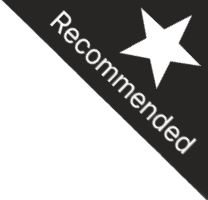
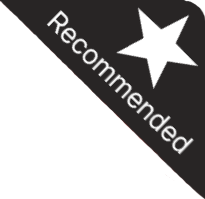
feature/abonnementen
Added the right styling

diff --git a/resources/sass/layout/abonnementen.scss b/resources/sass/layout/abonnementen.scss
@@ -3,10 +3,12 @@ body {
     text-align: center;
 }
 
+// Page title
 .abonnementen__title {
   color: $color--black;
 }
 
+// Subscriptions
 .abonnementen__cards {
   display: flex;
   flex-direction: column;
@@ -16,36 +18,105 @@ body {
     flex-direction: row;
     justify-content: center;
   }
-}
 
-.abonnementen__cards__content {
-  position: relative;
-  margin-bottom: 10px;
-  padding-bottom: 30px;
-  background-color: $color--primary;
-  color: $color--secondary;
-
-  @media #{$normal} {
-    height: 70vh;
-    width: 33vw;
-    margin-bottom: 0;
-    margin-right: 10px;
-    padding: 0 20px 20px 20px;
-  }
-}
-
-.abonnementen__cards__content__purchase {
-    background-color: $color--davy-grey;
+  // Content of abonnementen__cards
+  .abonnementen__cards__content {
+    position: relative;
+    margin-bottom: 10px;
+    padding-bottom: 240px;
+    background-color: $color--primary;
     color: $color--secondary;
-    text-decoration: none;
+    border-radius: 20px;
+    box-shadow: $color--davy-transpar 8px 8px 8px;
 
-    &:hover {
-        color: $color--primary;
+    @media #{$normal} {
+      height: 70vh;
+      width: 20vw;
+      margin-bottom: 0;
+      margin-left: 20px;
+      margin-right: 20px;
+      padding: 0 20px 20px 20px;
     }
-}
 
-.abonnementen__cards__content__icon {
-    position: absolute;
-    bottom: 5%;
-    width: 80px;
+    // Content of abonnementen__cards__content
+    .abonnementen__cards__content__recommended {
+      position: absolute;
+      width: 100px;
+      right: 0;
+      top: 0;
+    }
+  
+    // Card title
+    .abonnementen__cards__content__title {
+      text-shadow: $color--black 2px 2px;
+    }
+
+    //Amount
+    .abonnementen__cards__content__amount {
+      font-weight: bold;
+    }
+
+    // Card description
+    .abonnementen__cards__content__description {
+      text-align: left;
+      padding: 0 25px 0 30px;
+    }
+
+    // Card price
+    .abonnementen__cards__content__price {
+      position: absolute;
+      left: 25%;
+      right: 25%;
+      top: 48%;
+      font-size: 50px;
+    }
+    .extreme_price {
+      top: 50%;
+    }
+
+    // Card "Bestel" button
+    .abonnementen__cards__content__purchase {
+      position: absolute;
+      bottom: 25%;
+      left: 36%;
+      padding: 10px 25px;
+      font-size: 18px;
+      background-color: $color--davy-grey;
+      color: $color--secondary;
+      text-decoration: none;
+      border: none;
+      border-radius: 10px;
+
+      &:hover {
+        color: $color--alizarin-crimson;
+        cursor: pointer;
+      }
+
+      @media #{$normal} {
+        bottom: 25%;
+      }
+    }
+
+    // Subcription icon
+    .abonnementen__cards__content__icon {
+      position: absolute;
+      bottom: 5%;
+      width: 80px;
+    }
+
+    .icon-basic {
+      width: 40px;
+      left: 44%;
+      right: 44%;
+    }
+    .icon-boosted {
+      left: 38%;
+      right: 38%;
+    }
+    .icon-extreme {
+      width: 115px;
+      left: 33%;
+      right: 33%;
+    }
+  }
 }

diff --git a/public/css/app.css b/public/css/app.css
@@ -40,38 +40,104 @@ body {
   }
 }
 
-.abonnementen__cards__content {
+.abonnementen__cards .abonnementen__cards__content {
   position: relative;
   margin-bottom: 10px;
-  padding-bottom: 30px;
+  padding-bottom: 240px;
   background-color: #942e2a;
   color: #fff;
+  border-radius: 20px;
+  box-shadow: #2323237e 8px 8px 8px;
 }
 
 @media screen and (min-width: 992px) {
-  .abonnementen__cards__content {
+  .abonnementen__cards .abonnementen__cards__content {
     height: 70vh;
-    width: 33vw;
+    width: 20vw;
     margin-bottom: 0;
-    margin-right: 10px;
+    margin-left: 20px;
+    margin-right: 20px;
     padding: 0 20px 20px 20px;
   }
 }
 
-.abonnementen__cards__content__purchase {
+.abonnementen__cards .abonnementen__cards__content .abonnementen__cards__content__recommended {
+  position: absolute;
+  width: 100px;
+  right: 0;
+  top: 0;
+}
+
+.abonnementen__cards .abonnementen__cards__content .abonnementen__cards__content__title {
+  text-shadow: #000 2px 2px;
+}
+
+.abonnementen__cards .abonnementen__cards__content .abonnementen__cards__content__amount {
+  font-weight: bold;
+}
+
+.abonnementen__cards .abonnementen__cards__content .abonnementen__cards__content__description {
+  text-align: left;
+  padding: 0 25px 0 30px;
+}
+
+.abonnementen__cards .abonnementen__cards__content .abonnementen__cards__content__price {
+  position: absolute;
+  left: 25%;
+  right: 25%;
+  top: 48%;
+  font-size: 50px;
+}
+
+.abonnementen__cards .abonnementen__cards__content .extreme_price {
+  top: 50%;
+}
+
+.abonnementen__cards .abonnementen__cards__content .abonnementen__cards__content__purchase {
+  position: absolute;
+  bottom: 25%;
+  left: 36%;
+  padding: 10px 25px;
+  font-size: 18px;
   background-color: #232323;
   color: #fff;
   text-decoration: none;
+  border: none;
+  border-radius: 10px;
 }
 
-.abonnementen__cards__content__purchase:hover {
-  color: #942e2a;
+.abonnementen__cards .abonnementen__cards__content .abonnementen__cards__content__purchase:hover {
+  color: #fe1e27;
+  cursor: pointer;
 }
 
-.abonnementen__cards__content__icon {
+@media screen and (min-width: 992px) {
+  .abonnementen__cards .abonnementen__cards__content .abonnementen__cards__content__purchase {
+    bottom: 25%;
+  }
+}
+
+.abonnementen__cards .abonnementen__cards__content .abonnementen__cards__content__icon {
   position: absolute;
   bottom: 5%;
   width: 80px;
+}
+
+.abonnementen__cards .abonnementen__cards__content .icon-basic {
+  width: 40px;
+  left: 44%;
+  right: 44%;
+}
+
+.abonnementen__cards .abonnementen__cards__content .icon-boosted {
+  left: 38%;
+  right: 38%;
+}
+
+.abonnementen__cards .abonnementen__cards__content .icon-extreme {
+  width: 115px;
+  left: 33%;
+  right: 33%;
 }
 
 .overzicht__counter--color {

diff --git a/resources/sass/assets/variables.scss b/resources/sass/assets/variables.scss
@@ -84,10 +84,11 @@ $wide-down: 'screen and (max-width: #{$screen-xl-max})';
 // -----------------------------------------------------------------------------
 
 // Primary
-$color--black: #000;
+$color--auburn: #942e2a;
 $color--white: #fff;
 
 // Secondary:
+$color--black: #000;
 
 // System
 $color-approve: #00D896;
@@ -97,8 +98,8 @@ $color-filter: rgba(245, 127, 39, 0.05);
 
 // Potential House style
 $color--alizarin-crimson: #fe1e27;
-$color--auburn: #942e2a;
 $color--davy-grey: #232323;
+$color--davy-transpar: #2323237e;
 $color--battleship-grey: #707070;
 
 $color--primary: $color--auburn;

diff --git a/resources/views/abonnementen.blade.php b/resources/views/abonnementen.blade.php
@@ -9,7 +9,7 @@
 <!-- This is where the body starts and since there is a yield in the layout you can just create a section and start adding content -->
 @section('content')
   <!-- Variables -->
-  @php($pc = "powercrate")
+  @php($pc = "PowerCrate")
 
   <h2 class="abonnementen__title">Weekelijkse Abonnementen</h2>
 <form action="{{ route('abonnementen.store') }}" method="POST">
@@ -18,29 +18,30 @@
       <!-- Basic -->
       <div class="abonnementen__cards__content">
       <h3 class="abonnementen__cards__content__title">Basic {{ $pc }}</h3>
-        <p class="abonnementen__cards__content__amount">7</p>
-        <p class="abonnementen__cards__content__description">hier komt description</p>
-        <div class="abonnementen__cards__content__price">10 euro</div>
+        <p class="abonnementen__cards__content__amount">Keuze uit 7 drankjes</p>
+        <p class="abonnementen__cards__content__description">Ben jij iemand die niet te veel energie drinkt, maar er toch van houd om een paar keer in de week een blikje te proberen dan is de <i>Basic Powercrate</i> iets voor jou!</p>
+        <div class="abonnementen__cards__content__price">€9,99</div>
         <button type="submit" name="keuze" value="basic" class="abonnementen__cards__content__purchase">Bestel</button> <br />
-      <img src="{{URL::to('/')}}/img/icons/basic.png" class="abonnementen__cards__content__icon" alt="card_icon" style="width: 45px;" />
+      <img src="{{URL::to('/')}}/img/icons/basic.png" class="abonnementen__cards__content__icon icon-basic" alt="card_icon" />
       </div>
       <!-- Boosted -->
       <div class="abonnementen__cards__content">
+        <img src="{{URL::to('/')}}/img/recommended.png" class="abonnementen__cards__content__recommended" alt="recommended-abonnement">
         <h3 class="abonnementen__cards__content__title">Boosted {{ $pc }}</h3>
-        <p class="abonnementen__cards__content__amount">14</p>
-        <p class="abonnementen__cards__content__description">hier komt description</p>
-        <div class="abonnementen__cards__content__price">20 euro</div>
+        <p class="abonnementen__cards__content__amount">Keuze uit 14 drankjes</p>
+        <p class="abonnementen__cards__content__description">Heb jij een extra boost nodig in de week? En hou je er ook nog is van om tussen door wat te drinken, dan is de <i>Boosted Powercrate</i> jou perfecte keuze.</p>
+        <div class="abonnementen__cards__content__price">€19,99</div>
         <button type="submit" name="keuze" value="boosted" class="abonnementen__cards__content__purchase">Bestel</button> <br />
-        <img src="{{URL::to('/')}}/img/icons/boosted.png" class="abonnementen__cards__content__icon" alt="card_icon" />
+        <img src="{{URL::to('/')}}/img/icons/boosted.png" class="abonnementen__cards__content__icon icon-boosted" alt="card_icon" />
       </div>
       <!-- Extreme -->
       <div class="abonnementen__cards__content">
         <h3 class="abonnementen__cards__content__title">Extreme {{ $pc }}</h3>
-        <p class="abonnementen__cards__content__amount">21</p>
-        <p class="abonnementen__cards__content__description">hier komt description</p>
-        <div class="abonnementen__cards__content__price">30 euro</div>
+        <p class="abonnementen__cards__content__amount">Keuze uit 21 drankjes</p>
+        <p class="abonnementen__cards__content__description">Gebruik jij te veel energie in een week en heb jij een bom aan energie nodig? Dan is de <i>Extreme PowerCrate</i> iets voor jou. Naast de heerlijke smaken waaruit je kan kiezen, krijg je genoeg energie on jou week door te brengen.</p>
+        <div class="abonnementen__cards__content__price extreme_price">€29,99</div>
         <button type="submit" name="keuze" value="extreme" class="abonnementen__cards__content__purchase">Bestel</button> <br />
-        <img src="{{URL::to('/')}}/img/icons/extreme.png" class="abonnementen__cards__content__icon" alt="card_icon" style="width: 115px;" />
+        <img src="{{URL::to('/')}}/img/icons/extreme.png" class="abonnementen__cards__content__icon icon-extreme" alt="card_icon" />
       </div>
     </div>
   </form>
